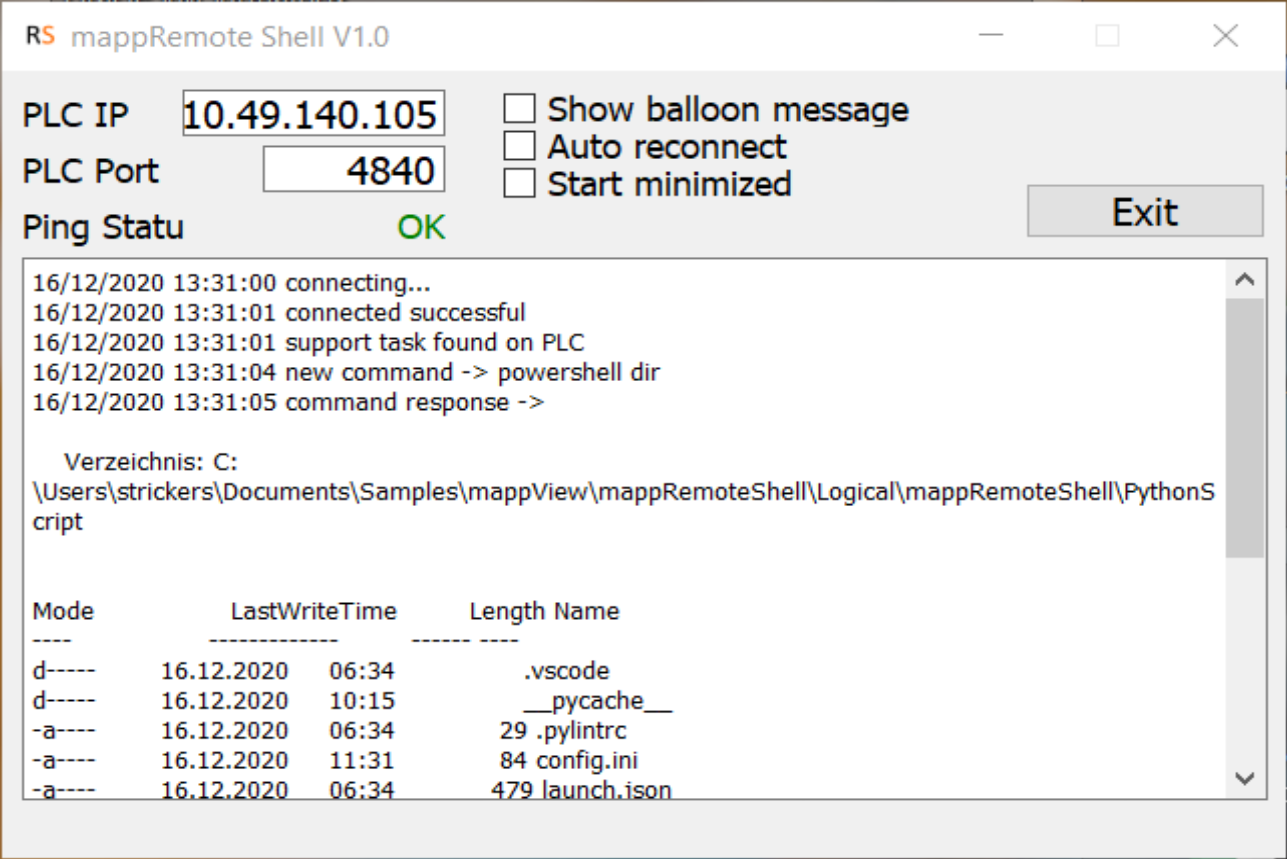
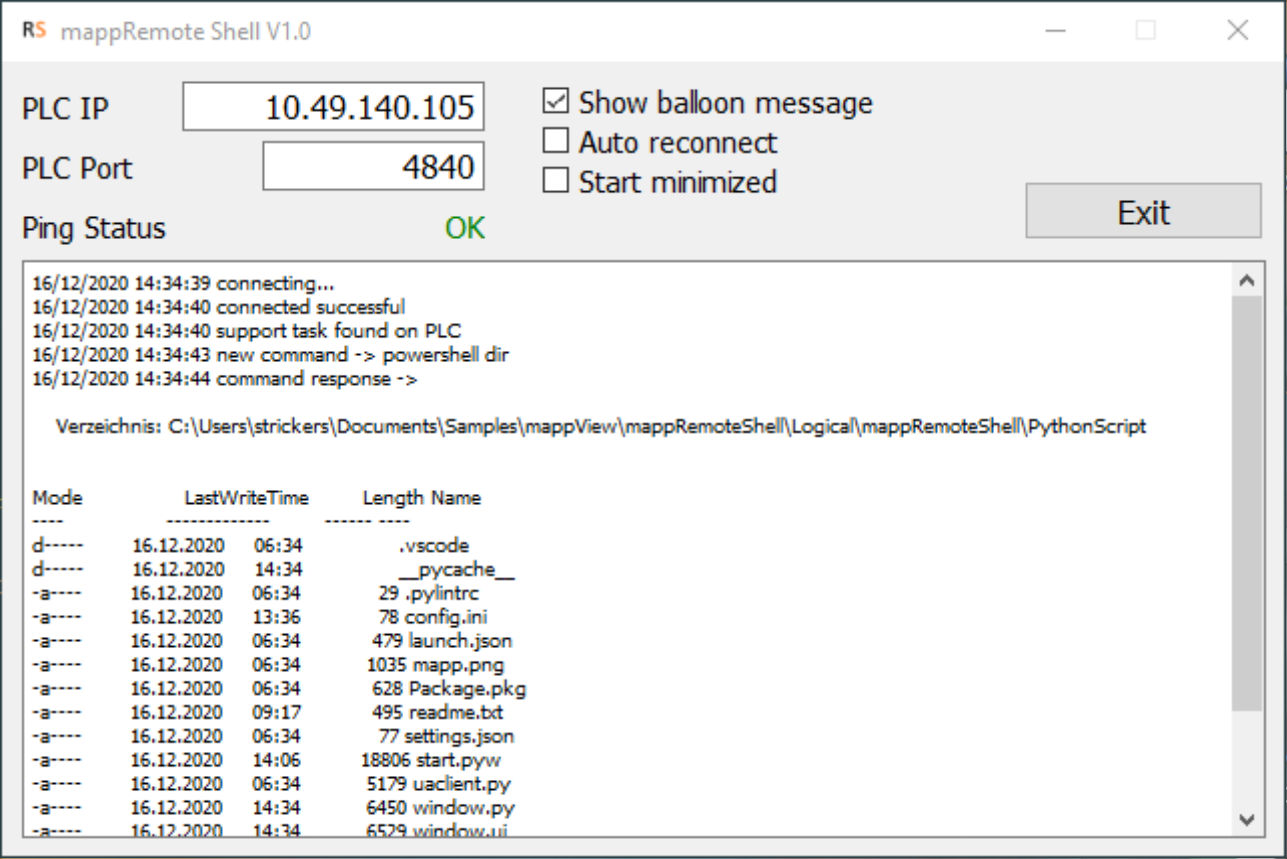
Update status text label

Changed region(s): [[0.0, 0.0, 1.0, 0.9988], [0.0, 0.1816, 0.1243, 0.2119]]

diff --git a/Logical/mappRemoteShell/PythonScript/window.py b/Logical/mappRemoteShell/PythonScript/window.py
@@ -60,7 +60,7 @@ class Ui_MainWindow(object):
         self.txtStatus.setGeometry(QtCore.QRect(10, 100, 621, 291))
         self.txtStatus.setObjectName("txtStatus")
         self.labPLC_Ping = QtWidgets.QLabel(self.centralwidget)
-        self.labPLC_Ping.setGeometry(QtCore.QRect(10, 70, 81, 25))
+        self.labPLC_Ping.setGeometry(QtCore.QRect(10, 70, 101, 25))
         font = QtGui.QFont()
         font.setPointSize(11)
         self.labPLC_Ping.setFont(font)
